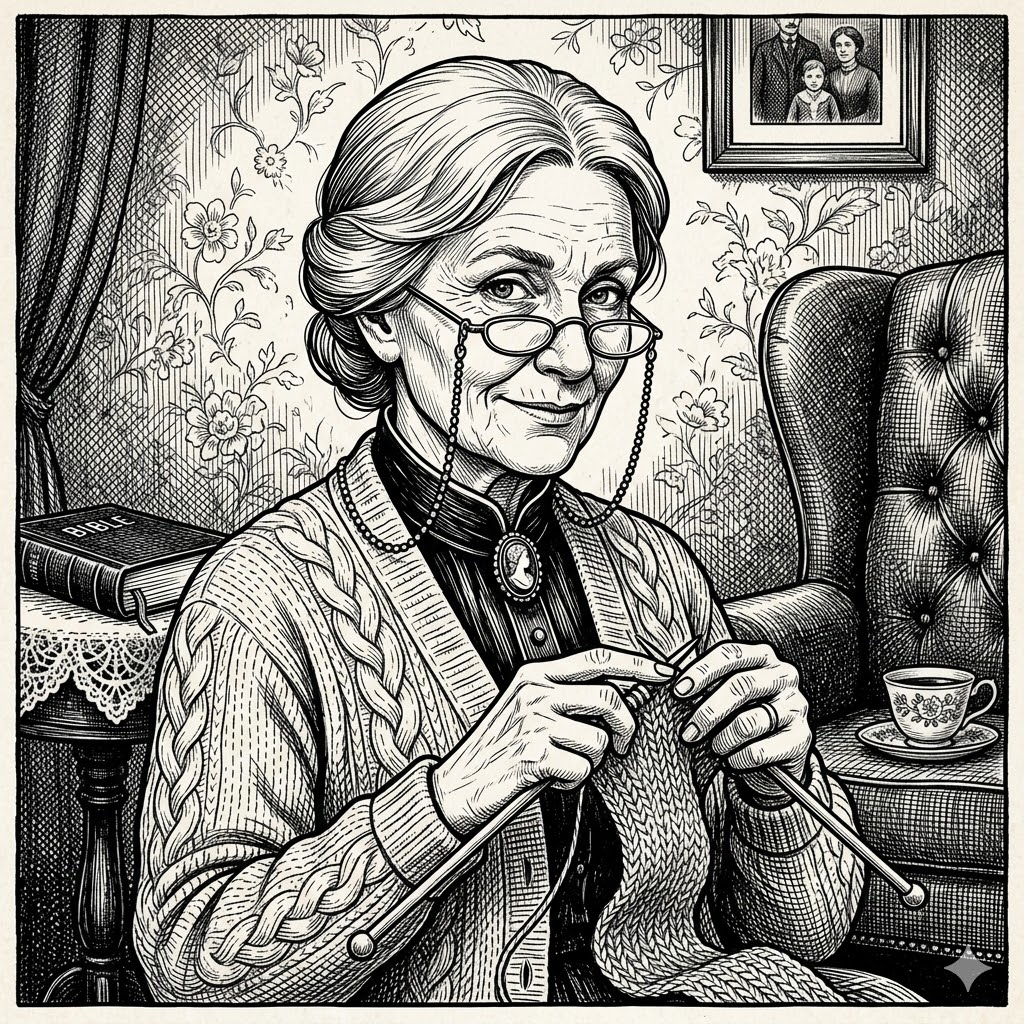
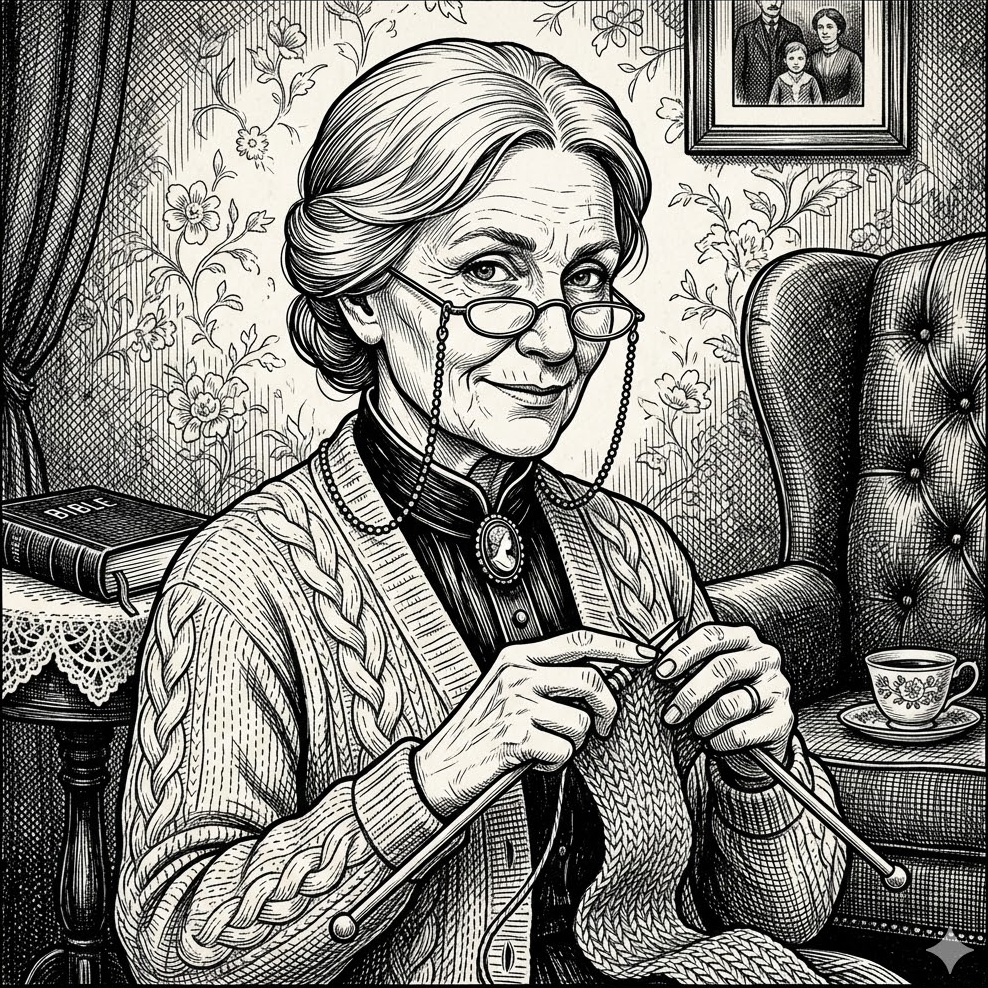
Add portraits for all 15 characters + Big Mike skill update (#26)
- Codenames-style B&W pen-and-ink portraits for all 15 characters,
  all cropped to 988x988 (18px border removed per edge)
- Dark background aesthetic on later characters (Jolene through Dex):
  single hard light source, everything else cross-hatched to near-black
- Big Mike: added Inside Man L to differentiate from Dex (was identical
  Muscle L / Driver L build)

diff --git a/heist/characters/__init__.py b/heist/characters/__init__.py
@@ -178,7 +178,7 @@ ROSTER: list[Character] = [
     Character(
         id=6,
         name="Big Mike Donato",
-        skills={"muscle": L, "driver": L},
+        skills={"muscle": L, "driver": L, "inside_man": L},
         floor_cost=200,
         backstory=(
             "Worked the Newark docks for twenty years until the longshoremen's union got "

diff --git a/heist/characters/_build_portraits_csv.py b/heist/characters/_build_portraits_csv.py
@@ -146,7 +146,7 @@ CHARACTERS: list[dict] = [
     },
     {
         "id": 6, "file": "c06_big_mike", "name": "Big Mike Donato",
-        "skills": "Muscle L, Driver L", "floor_cost": 200,
+        "skills": "Muscle L, Driver L, Inside Man L", "floor_cost": 200,
         "backstory": "Worked the Newark docks for twenty years until the longshoremen's union got broken. Picked up driving for a chop shop, then for crews. Knows every back route between Trenton and the Bronx.",
         "voice": "Loud, friendly, profane. Hugs hello. Has exactly two volumes: warm shouting and quiet menace.",
         "motivation": "Pays alimony to two ex-wives and child support for four kids. Cheerfully calls himself 'the joke at his own family's holidays.'",